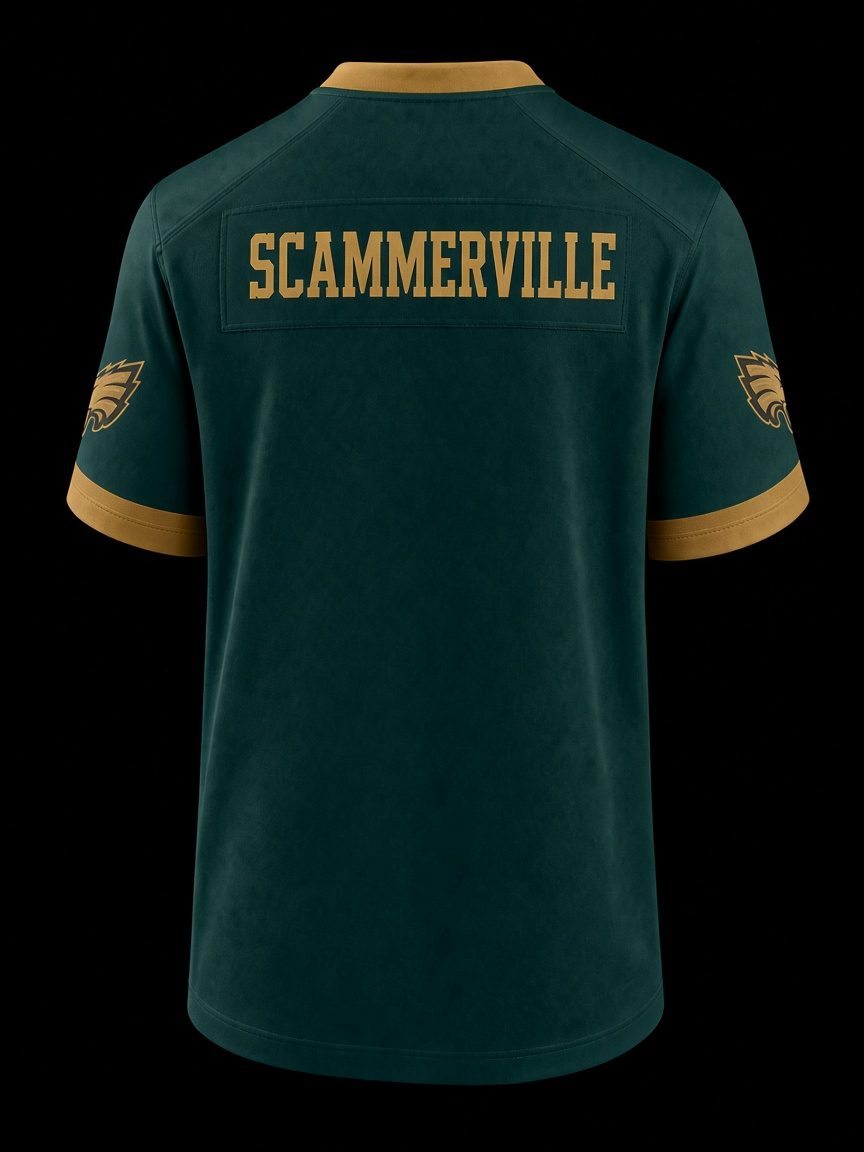
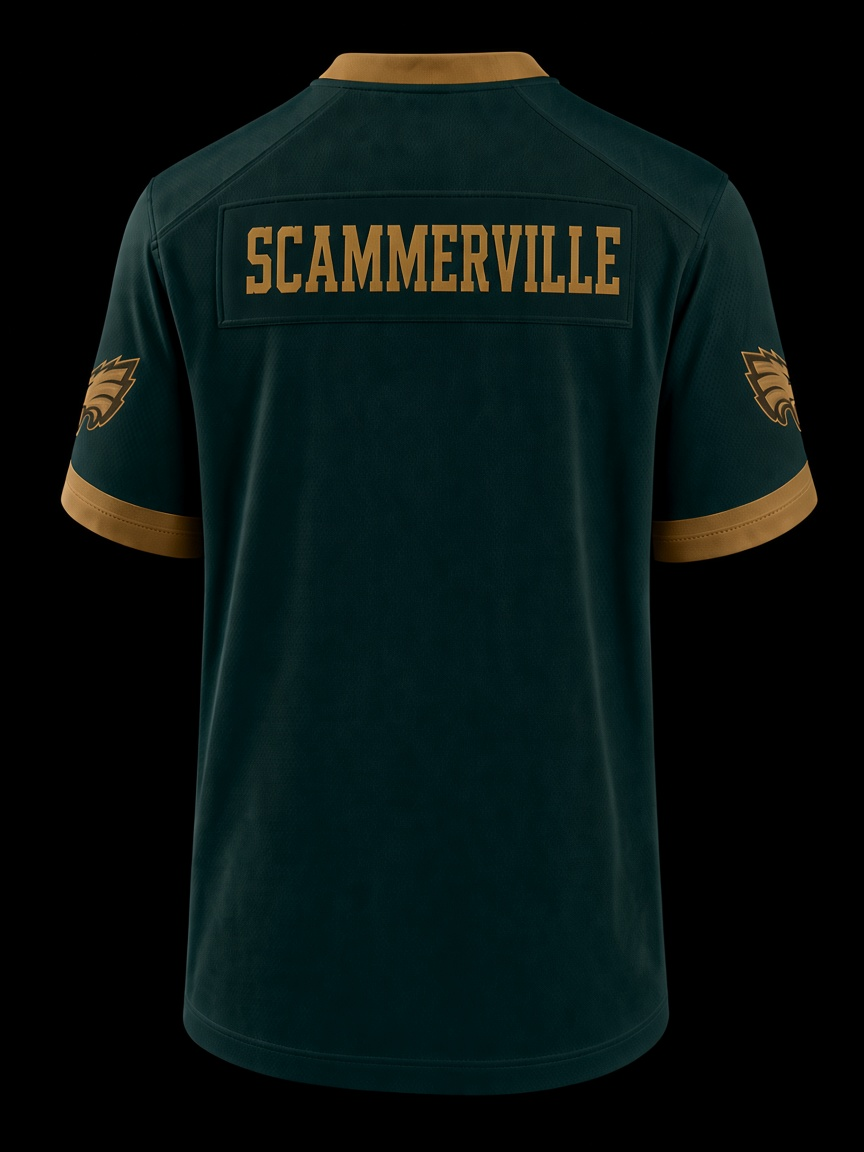
s3.0.72: NFL +15% width again, club nameplate up, patron name between plate and number, FloqR card rebuild

diff --git a/display.css b/display.css
@@ -1071,12 +1071,12 @@ body.display.display-booting .display-canvas:not(.has-background-layer){
   --nfl-photo-stack-y:0%;
 }
 .display-canvas.soccer-jersey-template.jersey-sport-nfl.jersey-photo-back .display-background{
-  /* Prior 103.5% height × 0.9 (−10% length) + scaleX(1.15×1.15)=1.3225 (+15% width). Collar pinned top. */
+  /* Width +15% again (1.3225×1.15); height/length unchanged at 93.15%. Collar pinned top. */
   background-size:auto 93.15%!important;
   background-position:center top!important;
   background-repeat:no-repeat!important;
   background-color:#000!important;
-  transform:scaleX(1.3225);
+  transform:scaleX(1.520875);
   transform-origin:center top;
 }
 .display-canvas.soccer-jersey-template.jersey-sport-nfl.jersey-photo-back .jersey-hanger-mount{
@@ -1086,11 +1086,11 @@ body.display.display-booting .display-canvas:not(.has-background-layer){
   display:none!important;
 }
 .display-canvas.soccer-jersey-template.jersey-sport-nfl.jersey-photo-back #displayMain.soccer-jersey-name{
-  /* Patron name just under baked nameplate — slightly higher, +10% type. */
-  top:calc(19% + var(--nfl-photo-stack-y))!important;
+  /* Patron name BETWEEN baked club nameplate and number (was overlapping plate). */
+  top:calc(28% + var(--nfl-photo-stack-y))!important;
   height:7.04%!important;
-  left:26%!important;
-  right:26%!important;
+  left:24%!important;
+  right:24%!important;
   margin:0 auto!important;
   padding:0!important;
   text-align:center!important;
@@ -1104,13 +1104,14 @@ body.display.display-booting .display-canvas:not(.has-background-layer){
   text-shadow:
     0 0 1px var(--jersey-accent,#B3995D),
     0 1px 0 rgba(0,0,0,.55);
+  z-index:8!important;
 }
 .display-canvas.soccer-jersey-template.jersey-sport-nfl.jersey-photo-back #displaySub.soccer-jersey-number{
-  /* Mid-back mark under patron name (−10% size); FloqR bottom rail clear. */
-  top:calc(30% + var(--nfl-photo-stack-y))!important;
+  /* Mid-back under patron name; FloqR bottom rail clear. */
+  top:calc(38% + var(--nfl-photo-stack-y))!important;
   height:27%!important;
-  left:22%!important;
-  right:22%!important;
+  left:20%!important;
+  right:20%!important;
   margin:0 auto!important;
   padding:0!important;
   text-align:center!important;
@@ -1130,6 +1131,7 @@ body.display.display-booting .display-canvas:not(.has-background-layer){
     0 0 1px var(--jersey-accent,#B3995D),
     0 2px 0 rgba(0,0,0,.45);
   transform:none;
+  z-index:8!important;
 }
 /* NFL dual shoutout: kit-color bezel glow, 96×48 side-by-side, 64× rotate jersey↔text */
 .display-canvas.soccer-jersey-template.jersey-sport-nfl.nfl-dual-layout{
@@ -1192,7 +1194,7 @@ body.display.display-booting .display-canvas:not(.has-background-layer){
   width:48%!important;
   background-size:auto 93.15%!important;
   background-position:center top!important;
-  transform:scaleX(1.3225);
+  transform:scaleX(1.520875);
   transform-origin:center top;
 }
 .display-canvas.soccer-jersey-template.jersey-sport-nfl.jersey-photo-back.nfl-dual-side #displayMain.soccer-jersey-name,
@@ -1214,26 +1216,7 @@ body.display.display-booting .display-canvas:not(.has-background-layer){
 .display-canvas.soccer-jersey-template.jersey-sport-nfl.nfl-dual-layout .display-text-overlay{
   z-index:16!important;
 }
-.display-canvas.soccer-jersey-template.jersey-sport-nfl .display-identity-rail.soccer-jersey-rail,
-.display-canvas.soccer-jersey-template.jersey-sport-nfl.nfl-dual-layout .display-identity-rail.soccer-jersey-rail,
-.display-canvas.soccer-jersey-template.jersey-sport-nfl .display-identity-rail.floqr-card-bottom{
-  display:grid!important;
-  visibility:visible!important;
-  opacity:1!important;
-  z-index:30!important;
-  position:absolute!important;
-  top:auto!important;
-  bottom:2%!important;
-  height:12%!important;
-  left:8%!important;
-  right:8%!important;
-  transform:none!important;
-  margin:0!important;
-}
-.display-canvas.soccer-jersey-template.jersey-sport-nfl.nfl-dual-layout .classic-identity-shell{
-  /* Keep classic FloqR burst / particle animation. */
-  animation:classicIdentityShellBurst 20s cubic-bezier(.2,.8,.2,1) infinite!important;
-}
+/* FloqR card rebuilt at end of NFL block (after format overrides) — see nflFloqrCardPulse */
 .display-canvas.soccer-jersey-template.jersey-sport-nfl.nfl-dual-layout:after{
   z-index:15;
 }
@@ -1302,16 +1285,16 @@ body.display.display-booting .display-canvas:not(.has-background-layer){
 .display-canvas[data-screen-format-id="led-96x48"].soccer-jersey-template.jersey-sport-nfl.jersey-photo-back #displayMain.soccer-jersey-name,
 .display-canvas[data-screen-format-id="p125-96x48"].soccer-jersey-template.jersey-sport-nfl.jersey-photo-back #displayMain.soccer-jersey-name,
 .display-canvas[data-is-96x48="1"].soccer-jersey-template.jersey-sport-nfl.jersey-photo-back #displayMain.soccer-jersey-name{
-  top:calc(18% + var(--nfl-photo-stack-y))!important;
-  left:26%!important;
-  right:26%!important;
+  top:calc(27% + var(--nfl-photo-stack-y))!important;
+  left:24%!important;
+  right:24%!important;
 }
 .display-canvas[data-screen-format-id="led-96x48"].soccer-jersey-template.jersey-sport-nfl.jersey-photo-back #displaySub.soccer-jersey-number,
 .display-canvas[data-screen-format-id="p125-96x48"].soccer-jersey-template.jersey-sport-nfl.jersey-photo-back #displaySub.soccer-jersey-number,
 .display-canvas[data-is-96x48="1"].soccer-jersey-template.jersey-sport-nfl.jersey-photo-back #displaySub.soccer-jersey-number{
-  top:calc(29% + var(--nfl-photo-stack-y))!important;
-  left:22%!important;
-  right:22%!important;
+  top:calc(37% + var(--nfl-photo-stack-y))!important;
+  left:20%!important;
+  right:20%!important;
 }
 .display-canvas[data-screen-format-id="led-96x48"].soccer-jersey-template.jersey-sport-nfl.jersey-photo-back.nfl-dual-side #displayMain.soccer-jersey-name,
 .display-canvas[data-screen-format-id="p125-96x48"].soccer-jersey-template.jersey-sport-nfl.jersey-photo-back.nfl-dual-side #displayMain.soccer-jersey-name,
@@ -1325,31 +1308,31 @@ body.display.display-booting .display-canvas:not(.has-background-layer){
 .display-canvas[data-screen-format-id="led-64x48"].soccer-jersey-template.jersey-sport-nfl.jersey-photo-back #displayMain.soccer-jersey-name,
 .display-canvas[data-screen-format-id="p125-64x48"].soccer-jersey-template.jersey-sport-nfl.jersey-photo-back #displayMain.soccer-jersey-name,
 .display-canvas[data-is-64x48="1"].soccer-jersey-template.jersey-sport-nfl.jersey-photo-back #displayMain.soccer-jersey-name{
-  top:calc(19% + var(--nfl-photo-stack-y))!important;
-  left:26%!important;
-  right:26%!important;
+  top:calc(28% + var(--nfl-photo-stack-y))!important;
+  left:24%!important;
+  right:24%!important;
 }
 .display-canvas[data-screen-format-id="led-64x48"].soccer-jersey-template.jersey-sport-nfl.jersey-photo-back #displaySub.soccer-jersey-number,
 .display-canvas[data-screen-format-id="p125-64x48"].soccer-jersey-template.jersey-sport-nfl.jersey-photo-back #displaySub.soccer-jersey-number,
 .display-canvas[data-is-64x48="1"].soccer-jersey-template.jersey-sport-nfl.jersey-photo-back #displaySub.soccer-jersey-number{
-  top:calc(30% + var(--nfl-photo-stack-y))!important;
-  left:22%!important;
-  right:22%!important;
+  top:calc(38% + var(--nfl-photo-stack-y))!important;
+  left:20%!important;
+  right:20%!important;
 }
 .display-canvas[data-screen-format-id="led-64x32"].soccer-jersey-template.jersey-sport-nfl.jersey-photo-back #displayMain.soccer-jersey-name,
 .display-canvas[data-screen-format-id="p125-64x32"].soccer-jersey-template.jersey-sport-nfl.jersey-photo-back #displayMain.soccer-jersey-name,
 .display-canvas[data-is-64x32="1"].soccer-jersey-template.jersey-sport-nfl.jersey-photo-back #displayMain.soccer-jersey-name{
-  top:calc(17% + var(--nfl-photo-stack-y))!important;
-  left:26%!important;
-  right:26%!important;
+  top:calc(26% + var(--nfl-photo-stack-y))!important;
+  left:24%!important;
+  right:24%!important;
 }
 .display-canvas[data-screen-format-id="led-64x32"].soccer-jersey-template.jersey-sport-nfl.jersey-photo-back #displaySub.soccer-jersey-number,
 .display-canvas[data-screen-format-id="p125-64x32"].soccer-jersey-template.jersey-sport-nfl.jersey-photo-back #displaySub.soccer-jersey-number,
 .display-canvas[data-is-64x32="1"].soccer-jersey-template.jersey-sport-nfl.jersey-photo-back #displaySub.soccer-jersey-number{
-  top:calc(28% + var(--nfl-photo-stack-y))!important;
+  top:calc(36% + var(--nfl-photo-stack-y))!important;
   height:25%!important;
-  left:22%!important;
-  right:22%!important;
+  left:20%!important;
+  right:20%!important;
 }
 .display-canvas[data-screen-format-id="led-64x32"].soccer-jersey-template .soccer-jersey-team,
 .display-canvas[data-screen-format-id="p125-64x32"].soccer-jersey-template .soccer-jersey-team{
@@ -1375,6 +1358,82 @@ body.display.display-booting .display-canvas:not(.has-background-layer){
 .display-canvas[data-screen-format-id="p125-64x32"].soccer-jersey-template .display-identity-rail.soccer-jersey-rail{
   top:78%!important;
   height:14%!important;
+}
+
+/* NFL FloqR card rebuild — must follow all soccer/64×32 rail tops so bottom placement wins. */
+@keyframes nflFloqrCardPulse{
+  0%,72%{opacity:1;transform:scale(1);filter:blur(0) brightness(1)}
+  78%{opacity:1;transform:scale(1.045);filter:blur(0) brightness(1.28)}
+  86%{opacity:.55;transform:scale(1.1);filter:blur(1.5px) brightness(1.1)}
+  100%{opacity:1;transform:scale(1);filter:blur(0) brightness(1)}
+}
+.display-canvas.soccer-jersey-template.jersey-sport-nfl .display-identity-rail.soccer-jersey-rail,
+.display-canvas.soccer-jersey-template.jersey-sport-nfl.nfl-dual-layout .display-identity-rail.soccer-jersey-rail,
+.display-canvas.soccer-jersey-template.jersey-sport-nfl .display-identity-rail.floqr-card-bottom,
+.display-canvas.soccer-jersey-template.jersey-sport-nfl.jersey-photo-back .display-identity-rail.soccer-jersey-rail,
+.display-canvas.soccer-jersey-template.jersey-sport-nfl.jersey-photo-back .display-identity-rail.floqr-card-bottom,
+.display-canvas.soccer-jersey-template.jersey-sport-nfl.jersey-photo-back .display-identity-rail.soccer-jersey-rail.floqr-card-bottom,
+.display-canvas[data-screen-format-id="led-64x32"].soccer-jersey-template.jersey-sport-nfl .display-identity-rail.soccer-jersey-rail,
+.display-canvas[data-screen-format-id="p125-64x32"].soccer-jersey-template.jersey-sport-nfl .display-identity-rail.soccer-jersey-rail,
+.display-canvas[data-screen-format-id="led-64x48"].soccer-jersey-template.jersey-sport-nfl .display-identity-rail.soccer-jersey-rail,
+.display-canvas[data-screen-format-id="p125-64x48"].soccer-jersey-template.jersey-sport-nfl .display-identity-rail.soccer-jersey-rail,
+.display-canvas[data-screen-format-id="led-96x48"].soccer-jersey-template.jersey-sport-nfl .display-identity-rail.soccer-jersey-rail,
+.display-canvas[data-screen-format-id="p125-96x48"].soccer-jersey-template.jersey-sport-nfl .display-identity-rail.soccer-jersey-rail,
+.display-canvas[data-is-64x32="1"].soccer-jersey-template.jersey-sport-nfl .display-identity-rail.soccer-jersey-rail,
+.display-canvas[data-is-64x48="1"].soccer-jersey-template.jersey-sport-nfl .display-identity-rail.soccer-jersey-rail,
+.display-canvas[data-is-96x48="1"].soccer-jersey-template.jersey-sport-nfl .display-identity-rail.soccer-jersey-rail,
+.display-canvas[data-screen-format-id="led-64x32"].soccer-jersey-template.jersey-sport-nfl.jersey-photo-back .display-identity-rail.soccer-jersey-rail,
+.display-canvas[data-screen-format-id="p125-64x32"].soccer-jersey-template.jersey-sport-nfl.jersey-photo-back .display-identity-rail.soccer-jersey-rail{
+  display:grid!important;
+  visibility:visible!important;
+  opacity:1!important;
+  z-index:50!important;
+  position:absolute!important;
+  top:auto!important;
+  bottom:1.2%!important;
+  height:12%!important;
+  left:5%!important;
+  right:5%!important;
+  transform:none!important;
+  margin:0!important;
+  padding:0!important;
+  pointer-events:none!important;
+  place-items:center!important;
+  overflow:visible!important;
+}
+.display-canvas.soccer-jersey-template.jersey-sport-nfl .display-identity-rail .classic-identity-shell,
+.display-canvas.soccer-jersey-template.jersey-sport-nfl.nfl-dual-layout .classic-identity-shell,
+.display-canvas.soccer-jersey-template.jersey-sport-nfl .display-identity-rail.floqr-card-bottom .classic-identity-shell{
+  /* Persistent FloqR pulse — stays readable (classic burst hid the pill ~2/3 of the cycle). */
+  animation:nflFloqrCardPulse 12s cubic-bezier(.2,.8,.2,1) infinite!important;
+  opacity:1!important;
+  visibility:visible!important;
+  width:100%!important;
+  height:100%!important;
+  min-height:0!important;
+}
+.display-canvas.soccer-jersey-template.jersey-sport-nfl .classic-identity-shell small{
+  font-size:clamp(8px,1.6vh,16px)!important;
+  letter-spacing:.14em!important;
+}
+.display-canvas.soccer-jersey-template.jersey-sport-nfl .classic-identity-shell strong{
+  font-size:clamp(14px,3.4vh,36px)!important;
+}
+.display-canvas[data-screen-format-id="led-64x32"].soccer-jersey-template.jersey-sport-nfl .classic-identity-shell small,
+.display-canvas[data-screen-format-id="p125-64x32"].soccer-jersey-template.jersey-sport-nfl .classic-identity-shell small,
+.display-canvas[data-is-64x32="1"].soccer-jersey-template.jersey-sport-nfl .classic-identity-shell small{
+  font-size:clamp(7px,2.2vh,12px)!important;
+}
+.display-canvas[data-screen-format-id="led-64x32"].soccer-jersey-template.jersey-sport-nfl .classic-identity-shell strong,
+.display-canvas[data-screen-format-id="p125-64x32"].soccer-jersey-template.jersey-sport-nfl .classic-identity-shell strong,
+.display-canvas[data-is-64x32="1"].soccer-jersey-template.jersey-sport-nfl .classic-identity-shell strong{
+  font-size:clamp(12px,4.6vh,22px)!important;
+}
+@media(prefers-reduced-motion:reduce){
+  .display-canvas.soccer-jersey-template.jersey-sport-nfl .classic-identity-shell{
+    animation:none!important;
+    opacity:1!important;
+  }
 }
 
 /* Jersey on hanger (CSS mount) — Morocco/Spain presentation language */

diff --git a/functions/nfl-jersey-dual.test.js b/functions/nfl-jersey-dual.test.js
@@ -1,0 +1,46 @@
+"use strict";
+
+const test = require("node:test");
+const assert = require("node:assert/strict");
+const fs = require("node:fs");
+const path = require("node:path");
+
+const root = path.join(__dirname, "..");
+
+test("NFL photo CSS uses real-kit wider scale lock (+15% again)", () => {
+  const css = fs.readFileSync(path.join(root, "display.css"), "utf8");
+  assert.match(css, /background-size:\s*auto 93\.15%/);
+  assert.match(css, /transform:\s*scaleX\(1\.520875\)/);
+  assert.match(css, /height:\s*7\.04%/);
+  assert.match(css, /height:\s*27%/);
+  assert.match(css, /top:calc\(28% \+ var\(--nfl-photo-stack-y\)\)/);
+  assert.match(css, /@keyframes\s+nflFloqrCardPulse/);
+  assert.match(css, /animation:\s*nflFloqrCardPulse/);
+});
+
+test("display-app always dual-loops NFL photo kits and FloqR brand cycle", () => {
+  const js = fs.readFileSync(path.join(root, "display-app.js"), "utf8");
+  assert.match(js, /const nflDualActive = sport === "nfl" && usePhotoBack/);
+  assert.match(js, /baseName = Math\.min\(7\.04/);
+  assert.match(js, /baseNumber = Math\.min\(27/);
+  assert.match(js, /cycleWithBrand: !isIdleCta && \(nflDualActive \|\| !!cardValue\)/);
+  assert.match(js, /startFrameLoop\(canvas, refitNflShoutOnCopy\)/);
+  assert.match(js, /rail\.parentElement !== canvas/);
+  assert.match(js, /canvas\.appendChild\(rail\)/);
+});
+
+test("Club Admin approve stamps NFL photo background from packaged catalog", () => {
+  const js = fs.readFileSync(path.join(root, "admin-app.js"), "utf8");
+  assert.match(js, /resolvedBackgroundUrl = item\.backgroundUrl \|\| packaged\.defaultBackgroundUrl/);
+  assert.match(js, /nflDualLayout: isNflDual/);
+  assert.match(js, /layout: isNflDual \? "nfl-jersey"/);
+});
+
+test("display pages cache-bust NFL FloqR + width pass", () => {
+  const display = fs.readFileSync(path.join(root, "display.html"), "utf8");
+  const display2 = fs.readFileSync(path.join(root, "display2.html"), "utf8");
+  assert.match(display, /display\.css\?v=s3\.0\.72/);
+  assert.match(display, /display-app\.js\?v=s3\.0\.72/);
+  assert.match(display2, /display\.css\?v=s3\.0\.72/);
+  assert.match(display2, /display-app\.js\?v=s3\.0\.72/);
+});

diff --git a/display-app.js b/display-app.js
@@ -1735,20 +1735,26 @@
       }
 
       // FloqR card (bottom): always PRESENTED BY FloqMedia on NFL dual; opt-in @handle alternates every 6s.
-      const rail = byId("displayIdentityRail");
+      // Mount rail on the canvas (not inside display-center) so format/bezel stacking cannot hide it.
+      let rail = byId("displayIdentityRail");
+      if (rail && canvas && rail.parentElement !== canvas) {
+        canvas.appendChild(rail);
+      }
       if (rail && t.identityRail !== false) {
         const cardAttribution = floqrCardAttributionFromData(data);
         const cardValue = isIdleCta
           ? ""
           : (typeof cardAttribution === "string" ? cardAttribution : (cardAttribution.value || ""));
+        // NFL photo dual always paints FloqR — never leave the rail empty/hidden.
         paintFloqrCard(rail, {
           attribution: cardValue,
           asHandle: true,
           defaultScreen: isIdleCta || (nflDualActive && !cardValue),
-          // NFL dual: always run the FloqR gif (brand alone, or brand ↔ FROM @handle).
           cycleWithBrand: !isIdleCta && (nflDualActive || !!cardValue),
           extraClass: "soccer-jersey-rail floqr-card-bottom"
         });
+        rail.setAttribute("aria-hidden", "false");
+        rail.classList.remove("hidden");
       } else if (rail) {
         stopFloqrCardCycle();
         rail.className = "display-identity-rail hidden";

diff --git a/display.html b/display.html
@@ -7,7 +7,7 @@
   <meta http-equiv="Cache-Control" content="no-cache, no-store, must-revalidate"/>
   <meta http-equiv="Pragma" content="no-cache"/>
   <title>FLOQR ShoutOut Display</title>
-  <link rel="stylesheet" href="./display.css?v=s3.0.70"/>
+  <link rel="stylesheet" href="./display.css?v=s3.0.72"/>
 </head>
 <body class="display display-booting display-board-primary">
   <main id="displayCanvas" class="display-canvas" data-display-board="primary">
@@ -44,7 +44,7 @@
 <script src="./jersey-catalog.js?v=s3.0.62"></script>
 <script src="./floqr-identity.js?v=29.09.22"></script>
 <script src="./floqr-frame-loop.js?v=s3.0.55"></script>
-<script src="./display-app.js?v=s3.0.70"></script>
+<script src="./display-app.js?v=s3.0.72"></script>
 <script src="./notification-center.js?v=29.09.22"></script>
 <script src="./suprstr-webrtc.js?v=29.09.73"></script>
 <script src="./display-suprstr.js?v=29.09.73"></script>

diff --git a/display2.html b/display2.html
@@ -8,7 +8,7 @@
   <meta http-equiv="Pragma" content="no-cache"/>
   <title>FLOQR ShoutOut Display 2</title>
   <meta name="floqr-display-board" content="secondary"/>
-  <link rel="stylesheet" href="./display.css?v=s3.0.70"/>
+  <link rel="stylesheet" href="./display.css?v=s3.0.72"/>
 </head>
 <body class="display display-booting display-board-secondary">
   <main id="displayCanvas" class="display-canvas" data-display-board="secondary">
@@ -44,7 +44,7 @@
 <script src="./jersey-catalog.js?v=s3.0.62"></script>
 <script src="./floqr-identity.js?v=29.09.22"></script>
 <script src="./floqr-frame-loop.js?v=s3.0.55"></script>
-<script src="./display-app.js?v=s3.0.70"></script>
+<script src="./display-app.js?v=s3.0.72"></script>
 <script src="./notification-center.js?v=29.09.22"></script>
 <script src="./suprstr-webrtc.js?v=29.09.73"></script>
 <script src="./display-suprstr.js?v=29.09.73"></script>
